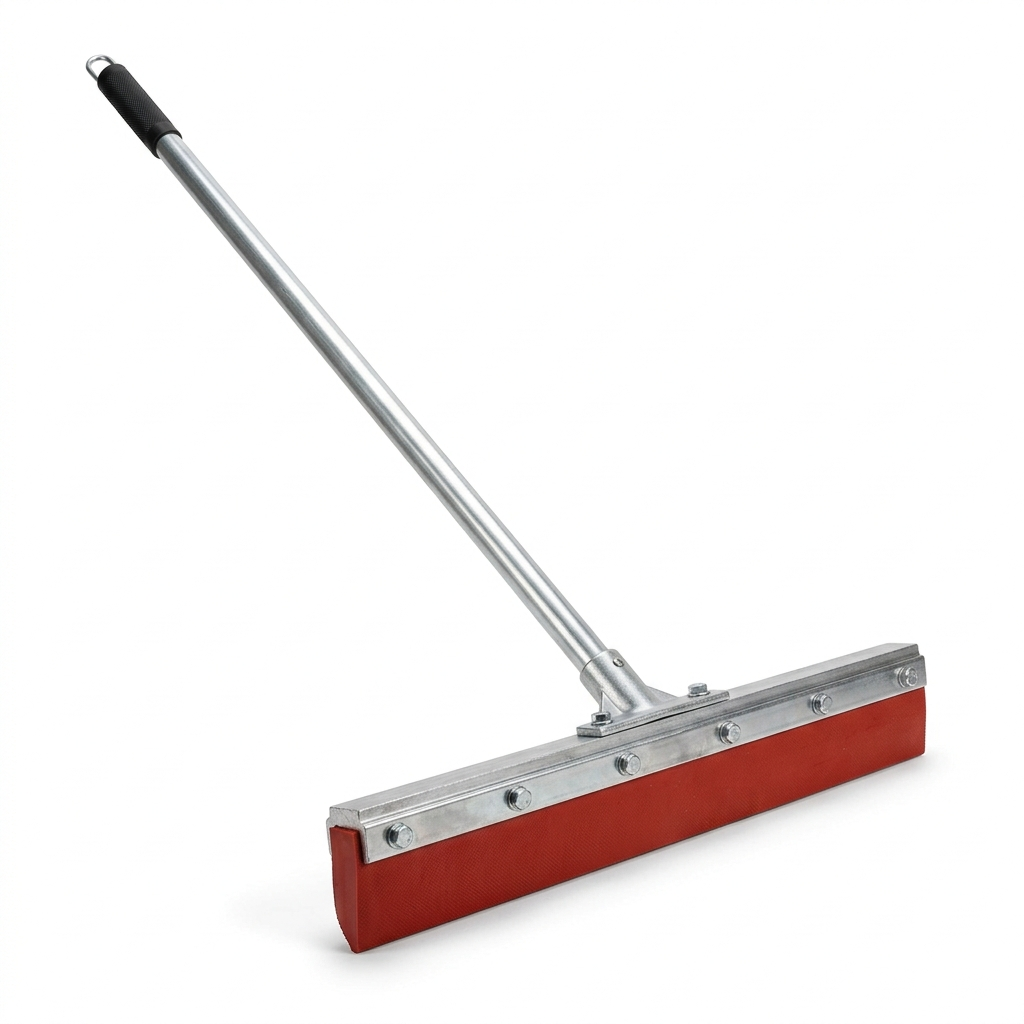
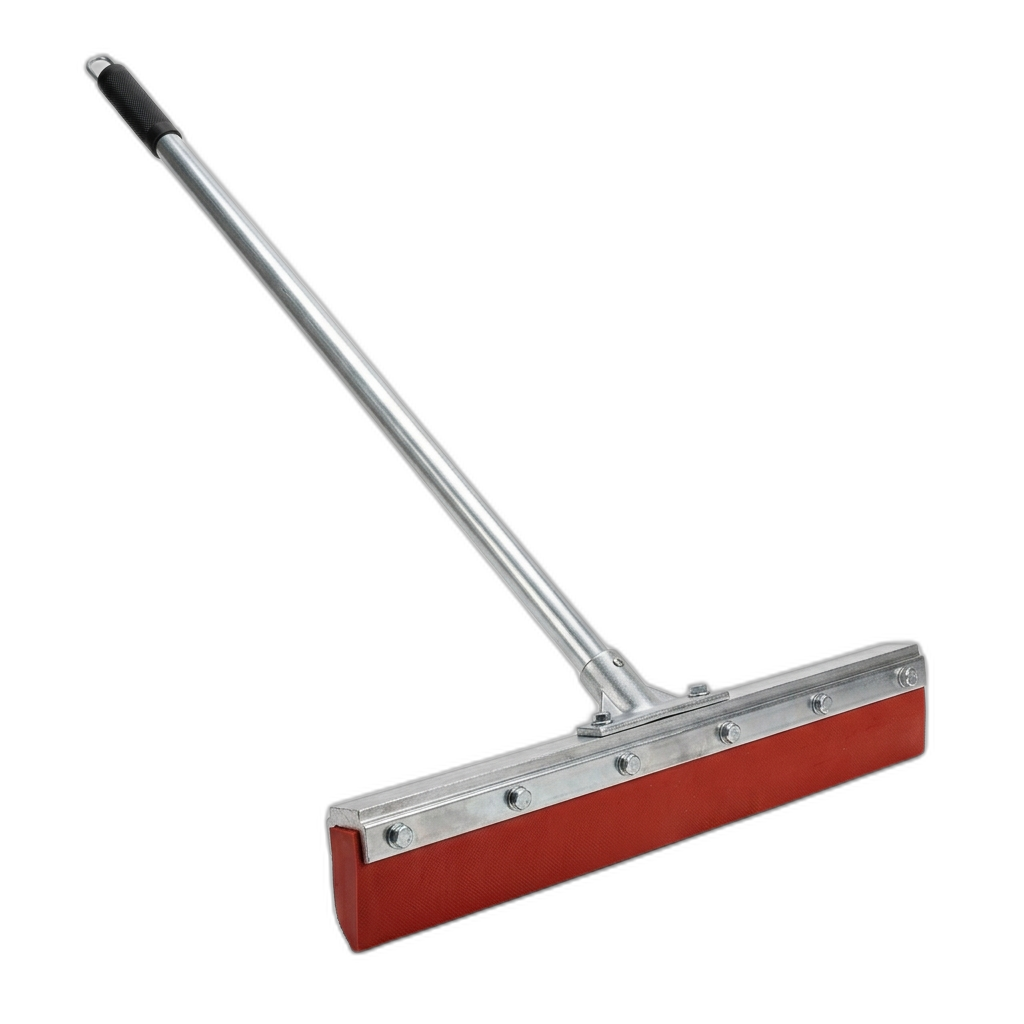
Update revolving products layout and remove image backgrounds

diff --git a/frontend/src/components/RevolvingProducts.css b/frontend/src/components/RevolvingProducts.css
@@ -1,0 +1,213 @@
+/* ── Revolving Product Stickers ─────────────────────────────────────────────── */
+
+.revolving-orbit {
+  position: absolute;
+  top: 50%;
+  left: -5%;
+  /* Center slightly off-screen left */
+  transform: translateY(-50%);
+  /* Flattened to 2D plane to ensure perfectly equal visual gaps */
+  width: 0;
+  height: 0;
+}
+
+@media (max-width: 768px) {
+  .revolving-orbit {
+    left: -10%;
+    /* Adjust for mobile */
+    top: 50%;
+  }
+}
+
+/* Each sticker item orbits in 2D with fake scaling */
+.orbit-item {
+  position: absolute;
+  top: 0;
+  left: 0;
+  animation: orbit2d 40s linear infinite;
+  animation-delay: var(--orbit-delay, 0s);
+}
+
+
+
+/* The sticker card */
+.product-sticker {
+  position: relative;
+  display: flex;
+  flex-direction: column;
+  align-items: center;
+  gap: 8px;
+  transform: translate(-50%, -50%);
+  cursor: pointer;
+  transition: filter 0.4s ease;
+  /* Removed outer drop shadow so it wraps the image pixels directly */
+}
+
+.product-sticker:hover {
+  /* Keep any text changes but remove outer shadow as it's moved to the image */
+}
+
+/* Product image – no background, just the product shape */
+.sticker-image-wrapper {
+  width: 140px;
+  height: 140px;
+  display: flex;
+  align-items: center;
+  justify-content: center;
+  transition: all 0.4s ease;
+}
+
+.product-sticker:hover .sticker-image-wrapper img {
+  transform: scale(1.1);
+}
+
+.sticker-image-wrapper img {
+  width: 100%;
+  height: 100%;
+  object-fit: contain;
+  transition: all 0.4s cubic-bezier(0.22, 1, 0.36, 1);
+}
+
+/* Product name label */
+.sticker-label {
+  font-size: 13px;
+  font-weight: 800;
+  text-transform: uppercase;
+  letter-spacing: 0.08em;
+  color: rgba(255, 255, 255, 0.85);
+  text-align: center;
+  max-width: 130px;
+  line-height: 1.2;
+  white-space: nowrap;
+  overflow: hidden;
+  text-overflow: ellipsis;
+  text-shadow: 0 2px 8px rgba(0, 0, 0, 0.8);
+  padding: 3px 8px;
+  border-radius: 6px;
+  background: rgba(0, 0, 0, 0.35);
+  backdrop-filter: blur(6px);
+  -webkit-backdrop-filter: blur(6px);
+  transition: all 0.3s ease;
+}
+
+.product-sticker:hover .sticker-label {
+  color: #22c55e;
+  background: rgba(0, 0, 0, 0.55);
+}
+
+/* ── 3D Orbit Keyframe ─────────────────────────────────────────────────────── */
+
+@keyframes orbit2d {
+  0% {
+    transform: rotateZ(0deg) translateX(var(--orbit-radius, 400px)) rotateZ(0deg) scale(1.1);
+    z-index: 10;
+  }
+
+  25% {
+    transform: rotateZ(90deg) translateX(var(--orbit-radius, 400px)) rotateZ(-90deg) scale(0.85);
+    z-index: 5;
+  }
+
+  50% {
+    transform: rotateZ(180deg) translateX(var(--orbit-radius, 400px)) rotateZ(-180deg) scale(0.65);
+    z-index: 1;
+  }
+
+  75% {
+    transform: rotateZ(270deg) translateX(var(--orbit-radius, 400px)) rotateZ(-270deg) scale(0.85);
+    z-index: 5;
+  }
+
+  100% {
+    transform: rotateZ(360deg) translateX(var(--orbit-radius, 400px)) rotateZ(-360deg) scale(1.1);
+    z-index: 10;
+  }
+}
+
+/* ── Responsive Sizes ──────────────────────────────────────────────────────── */
+
+@media (min-width: 768px) {
+  .sticker-image-wrapper {
+    width: 180px;
+    height: 180px;
+  }
+
+  .sticker-label {
+    font-size: 15px;
+    max-width: 190px;
+  }
+}
+
+@media (min-width: 1024px) {
+  .sticker-image-wrapper {
+    width: 220px;
+    height: 220px;
+  }
+
+  .sticker-label {
+    font-size: 16px;
+    max-width: 230px;
+  }
+}
+
+/* ── Glow pulse behind orbit center ────────────────────────────────────────── */
+
+.orbit-glow {
+  position: absolute;
+  top: 50%;
+  left: 50%;
+  transform: translate(-50%, -50%);
+  width: 300px;
+  height: 300px;
+  border-radius: 50%;
+  background: radial-gradient(circle, rgba(34, 197, 94, 0.08) 0%, transparent 70%);
+  animation: glow-pulse 4s ease-in-out infinite;
+  pointer-events: none;
+}
+
+@keyframes glow-pulse {
+
+  0%,
+  100% {
+    opacity: 0.4;
+    transform: translate(-50%, -50%) scale(0.9);
+  }
+
+  50% {
+    opacity: 0.8;
+    transform: translate(-50%, -50%) scale(1.1);
+  }
+}
+
+/* Orbit ring visual guide */
+.orbit-ring {
+  position: absolute;
+  top: 50%;
+  left: 50%;
+  border-radius: 50%;
+  pointer-events: none;
+  width: calc(var(--orbit-radius, 400px) * 2);
+  height: calc(var(--orbit-radius, 400px) * 2);
+  /* The ring is in the XY plane, so just center it */
+  transform: translate(-50%, -50%);
+  border: 1px dashed rgba(255, 255, 255, 0.08);
+  box-shadow: 0 0 40px rgba(34, 197, 94, 0.05);
+  animation: ring-rotate 60s linear infinite;
+}
+
+@keyframes ring-rotate {
+  from {
+    transform: translate(-50%, -50%) rotateZ(0deg);
+  }
+
+  to {
+    transform: translate(-50%, -50%) rotateZ(360deg);
+  }
+}
+
+@media (max-width: 768px) {
+  .orbit-glow {
+    width: 200px;
+    height: 200px;
+  }
+}

diff --git a/frontend/src/components/RevolvingProducts.tsx b/frontend/src/components/RevolvingProducts.tsx
@@ -1,0 +1,91 @@
+import { useState, useEffect, useMemo } from 'react';
+import { Link } from 'react-router-dom';
+import './RevolvingProducts.css';
+
+interface StickerProduct {
+  id: string;
+  name: string;
+  slug: string;
+  image: string;
+}
+
+// Curated list of products with their local brochure images (AI-generated PNGs with transparent-ish backgrounds)
+const STICKER_PRODUCTS: StickerProduct[] = [
+  { id: 'ps-1', name: 'Polishing Pad', slug: 'concrete-polishing-system-120cm', image: '/brochure-images/diamond_pad.png' },
+  { id: 'ch-1', name: 'Densifier', slug: 'concrete-densifier', image: '/brochure-images/ai_chemical_jug.png' },
+  { id: 'ac-1', name: 'Edge Grinder', slug: 'edge-grinding-machine', image: '/brochure-images/ai_edge_grinding_machine.png' },
+  { id: 'ac-2', name: 'Scrubber', slug: 'ride-on-scrubber-dryer', image: '/brochure-images/ai_ride_on_scrubber.png' },
+  { id: 'ac-4', name: 'Vacuum', slug: 'vacuum-cleaner', image: '/brochure-images/ai_industrial_vacuum.png' },
+  { id: 'ac-8', name: 'Burnisher', slug: 'burnishing-machine', image: '/brochure-images/ai_burnishing_machine.png' },
+  { id: 'ac-6', name: 'Sprayer', slug: 'chemical-sprayer', image: '/brochure-images/ai_chemical_sprayer.png' },
+  { id: 'ac-3', name: 'Auto Scrubber', slug: 'auto-scrubber-dryer', image: '/brochure-images/ai_auto_scrubber.png' },
+];
+
+const RevolvingProducts = () => {
+  const [isMobile, setIsMobile] = useState(false);
+
+  useEffect(() => {
+    const checkMobile = () => setIsMobile(window.innerWidth < 768);
+    checkMobile();
+    window.addEventListener('resize', checkMobile);
+    return () => window.removeEventListener('resize', checkMobile);
+  }, []);
+
+  const products = isMobile ? STICKER_PRODUCTS.slice(0, 5) : STICKER_PRODUCTS;
+  const count = products.length;
+
+  // Orbit radius - for the large XY arc on the left side
+  const orbitRadius = isMobile ? 200 : 400;
+
+  const orbitItems = useMemo(() => {
+    return products.map((product, i) => {
+      // Calculate delay to perfectly space items along the 40s duration
+      const delay = -40 * (i / count);
+
+      return {
+        ...product,
+        style: {
+          '--orbit-radius': `${orbitRadius}px`,
+          '--orbit-delay': `${delay}s`,
+        } as React.CSSProperties,
+      };
+    });
+  }, [count, orbitRadius, products]);
+
+  return (
+    <div className="revolving-orbit">
+      {/* Background glow for the central axis */}
+      <div className="orbit-glow" />
+
+      {/* 3D Ring */}
+      <div className="orbit-ring" />
+
+      {/* Orbiting product stickers */}
+      {orbitItems.map((product) => (
+        <div
+          key={product.id}
+          className="orbit-item"
+          style={product.style}
+        >
+          <Link
+            to={`/products/${product.slug}`}
+            className="product-sticker"
+            style={{ pointerEvents: 'auto' }}
+          >
+            <div className="sticker-image-wrapper">
+              <img
+                src={product.image}
+                alt={product.name}
+                loading="lazy"
+                draggable={false}
+              />
+            </div>
+            <span className="sticker-label">{product.name}</span>
+          </Link>
+        </div>
+      ))}
+    </div>
+  );
+};
+
+export default RevolvingProducts;

diff --git a/frontend/src/pages/Home.tsx b/frontend/src/pages/Home.tsx
@@ -4,6 +4,7 @@ import { ArrowRight, ChevronRight, ShieldCheck, Factory, Award, CheckCircle } fr
 import { CATEGORIES, CLIENTS, POLISHED_CONCRETE } from '../data/brochureData';
 import { useState, useEffect } from 'react';
 import ScrollStackSection from '../components/ScrollStackSection';
+import RevolvingProducts from '../components/RevolvingProducts';
 
 interface DbProduct {
   id: string;
@@ -68,11 +69,9 @@ const Home = () => {
             <div className="absolute inset-0 bg-gradient-to-r from-neutral-900 via-neutral-900/30 to-transparent md:block hidden"></div>
           </div>
 
-          {/* Left Container */}
-          <div className="absolute inset-0 z-10 pointer-events-none overflow-hidden" style={{ perspective: '2000px' }}>
-
-
-
+          {/* Left Container — Revolving Product Stickers */}
+          <div className="absolute inset-0 z-10 pointer-events-none overflow-hidden hidden lg:block" style={{ perspective: '2000px' }}>
+            <RevolvingProducts />
           </div>
 
           {/* Text Container aligned bottom right */}
